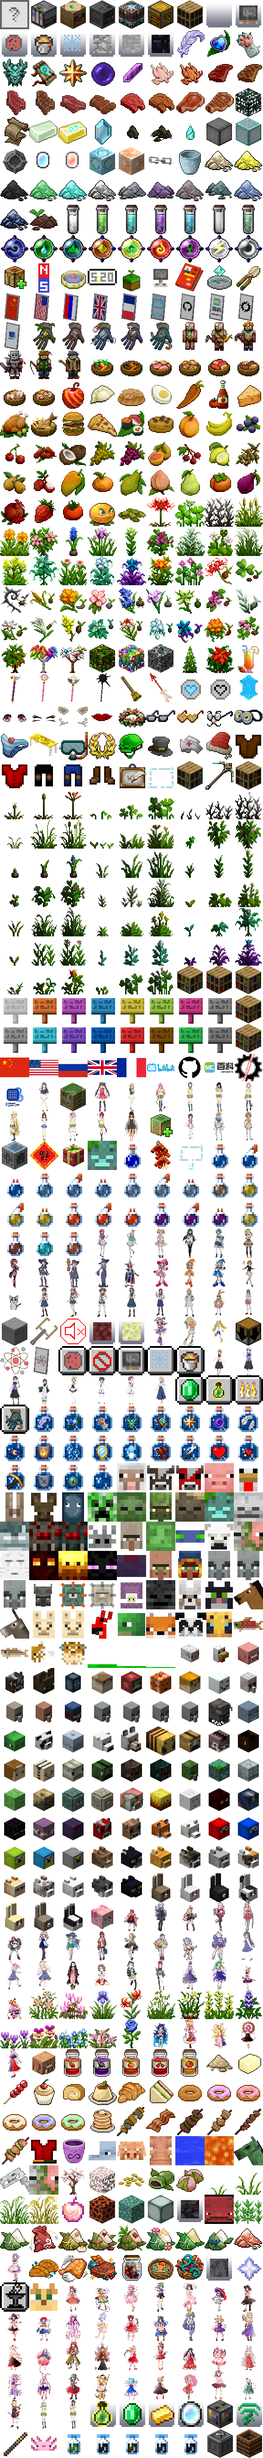
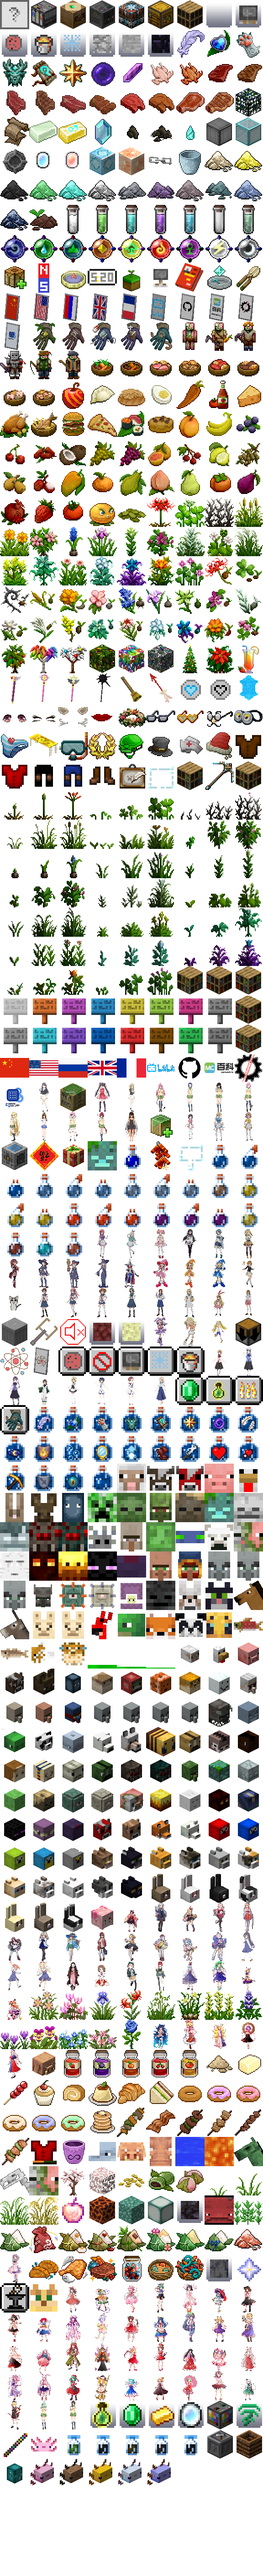
0121

diff --git a/index.html b/index.html
@@ -300,7 +300,7 @@
 	<li><a href="#矿石树树苗"><span class="ci" style="background-position: -32px -352px;"></span> 矿石树树苗</a></li>
 	<li><a href="#樱花树树苗"><span class="ci" style="background-position: -32px -1184px;"></span> 樱花树树苗</a></li>
 </ul></li>
-<li class="up5"><a href="#仪式和魔法"><span class="ci" style="background-position: -32px -368px;"></span> 仪式和魔法</a><ul>
+<li class="up5"><a href="#仪式"><span class="ci" style="background-position: -32px -368px;"></span> 仪式</a><ul>
 	<li><a href="#封印之杖"><span class="ci" style="background-position: -0px -368px;"></span> 封印之杖</a> </li>
 	<li><a href="#星之杖"><span class="ci" style="background-position: -16px -368px;"></span> 星之杖</a> </li>
 	<li><a href="#梦之杖"><span class="ci" style="background-position: -32px -368px;"></span> 梦之杖</a> </li>
@@ -390,18 +390,18 @@
 	<th>下载地址</th></tr></thead>
 <tbody>
 	<tr>
-		<td>Java版 20w51a</td>
-		<td>v1.12-0115</td>
-		<td><a href="https://gitee.com/zhangshenxing/CraftingPlusPlus/releases/v1.12-0115">Gitee</a> |
-			<a href="https://github.com/ruhuasiyu/CraftingPlusPlus/releases/tag/v1.12-0115">GitHub</a> |
-			<a href="http://home.ustc.edu.cn/~zsxqq/craftingpp/v1.12-0115.zip">其它</a></td>
+		<td>Java版 21w03a</td>
+		<td>v1.12-0121</td>
+		<td><a href="https://gitee.com/zhangshenxing/CraftingPlusPlus/releases/v1.12-0121">Gitee</a> |
+			<a href="https://github.com/ruhuasiyu/CraftingPlusPlus/releases/tag/v1.12-0121">GitHub</a> |
+			<a href="http://home.ustc.edu.cn/~zsxqq/craftingpp/v1.12-0121.zip">其它</a></td>
 	</tr>
 	<tr>
 		<td>Java版 1.16.2-1.16.4</td>
-		<td>v1.11.2-0115</td>
-		<td><a href="https://gitee.com/zhangshenxing/CraftingPlusPlus/releases/v1.11.2-0115">Gitee</a> |
-			<a href="https://github.com/ruhuasiyu/CraftingPlusPlus/releases/tag/v1.11.2-0115">GitHub</a> |
-			<a href="http://home.ustc.edu.cn/~zsxqq/craftingpp/v1.11.2-0115.zip">其它</a></td>
+		<td>v1.11.2-0121</td>
+		<td><a href="https://gitee.com/zhangshenxing/CraftingPlusPlus/releases/v1.11.2-0121">Gitee</a> |
+			<a href="https://github.com/ruhuasiyu/CraftingPlusPlus/releases/tag/v1.11.2-0121">GitHub</a> |
+			<a href="http://home.ustc.edu.cn/~zsxqq/craftingpp/v1.11.2-0121.zip">其它</a></td>
 	</tr>
 	<tr><td colspan="3"></td></tr>
 	<tr>
@@ -918,7 +918,7 @@
 <tr><th><strong id="水晶之心">水晶之心</strong></th>
 	<td><a class="ui ci heart_of_crystal"></a></td>
 	<td><code>cpp:heart_of_crystal</code></td>
-	<td>溺尸/远古守卫者/守卫者/鱿鱼/海龟/海豚/鱼/美西螈被玩家杀死时，有<code>2.5%+抢夺等级×1%</code>的几率掉落。钓鱼亦有几率获得。</td>
+	<td>溺尸/远古守卫者/守卫者/鱿鱼/海龟/海豚/鱼/美西螈/发光鱿鱼被玩家杀死时，有<code>2.5%+抢夺等级×1%</code>的几率掉落。钓鱼亦有几率获得。</td>
 </tr>
 <tr><th><strong id="山脉之肢">山脉之肢</strong></th>
 	<td><a class="ui ci limb_of_ridge"></a></td>
@@ -990,6 +990,11 @@
 	<td><a class="ui ci squid_head"></a></td>
 	<td><code>cpp:squid_head</code></td>
 	<td>鱿鱼被玩家杀死时，有<code>2.5%+抢夺等级×1%</code>的几率掉落。</td>
+</tr>
+<tr><th><strong id="荧光鱿鱼头">荧光鱿鱼头</strong></th>
+	<td><a class="ui ci glow_squid_head"></a></td>
+	<td><code>cpp:glow_squid_head</code></td>
+	<td>荧光鱿鱼被玩家杀死时，有<code>2.5%+抢夺等级×1%</code>的几率掉落。</td>
 </tr>
 <tr><th><strong id="鳕鱼头">鳕鱼头</strong></th>
 	<td><a class="ui ci cod_head"></a></td>
@@ -1356,6 +1361,31 @@
 	<td><a class="ui ci rabbit_head_toast"></a></td>
 	<td><code>cpp:rabbit_head.toast</code></td>
 	<td>Toast 兔被玩家杀死时，有<code>2.5%+抢夺等级×1%</code>的几率掉落。<br />矿物辞典 <code>dict:["rabbit_head"]</code></td>
+</tr>
+<tr><th><strong id="粉红色美西螈头">粉红色美西螈头</strong></th>
+	<td><a class="ui ci axolotl_head_lucy"></a></td>
+	<td><code>cpp:axolotl_head.lucy</code></td>
+	<td>粉红色美西螈被玩家杀死时，有<code>2.5%+抢夺等级×1%</code>的几率掉落。<br />矿物辞典 <code>dict:["axolotl_head"]</code></td>
+</tr>
+<tr><th><strong id="棕色美西螈头">棕色美西螈头</strong></th>
+	<td><a class="ui ci axolotl_head_wild"></a></td>
+	<td><code>cpp:axolotl_head.wild</code></td>
+	<td>棕色美西螈被玩家杀死时，有<code>2.5%+抢夺等级×1%</code>的几率掉落。<br />矿物辞典 <code>dict:["axolotl_head"]</code></td>
+</tr>
+<tr><th><strong id="金色美西螈头">金色美西螈头</strong></th>
+	<td><a class="ui ci axolotl_head_gold"></a></td>
+	<td><code>cpp:axolotl_head.gold</code></td>
+	<td>金色美西螈被玩家杀死时，有<code>2.5%+抢夺等级×1%</code>的几率掉落。<br />矿物辞典 <code>dict:["axolotl_head"]</code></td>
+</tr>
+<tr><th><strong id="青色美西螈头">青色美西螈头</strong></th>
+	<td><a class="ui ci axolotl_head_cyan"></a></td>
+	<td><code>cpp:axolotl_head.cyan</code></td>
+	<td>青色美西螈被玩家杀死时，有<code>2.5%+抢夺等级×1%</code>的几率掉落。<br />矿物辞典 <code>dict:["axolotl_head"]</code></td>
+</tr>
+<tr><th><strong id="蓝色美西螈头">蓝色美西螈头</strong></th>
+	<td><a class="ui ci axolotl_head_blue"></a></td>
+	<td><code>cpp:axolotl_head.blue</code></td>
+	<td>蓝色美西螈被玩家杀死时，有<code>2.5%+抢夺等级×1%</code>的几率掉落。<br />矿物辞典 <code>dict:["axolotl_head"]</code></td>
 </tr>
 <tr><th><strong id="生鹦鹉肉">生鹦鹉肉</strong></th>
 	<td><a class="ui ci parrot_meat"></a></td>
@@ -8752,7 +8782,7 @@
 
 
 <!--==================================================================-->
-<h2 id="仪式和魔法">仪式和魔法</h2>
+<h2 id="仪式">仪式</h2>
 <p>魔杖配方中的两种材料位置可互换。</p>
 
 <table><thead><tr><th>产物</th>
@@ -8762,7 +8792,7 @@
 </tr></thead><tbody>		
 <tr id="封印之杖">
 	<th><strong>封印之杖</strong><br />
-魔法等级: 1</th>
+法杖等级: 1</th>
 	<td><a href="#附魔铁锭">附魔铁锭</a>+<a href="#附魔金锭">附魔金锭</a>+木棍</td>
 	<td><span class="ui cm" title="合成器">
 		<a href="#附魔铁锭" class="ci enchanted_iron" title="附魔铁锭"></a>
@@ -8781,7 +8811,7 @@
 
 <tr id="星之杖">
 	<th><strong>星之杖</strong><br />
-魔法等级: 2</th>
+法杖等级: 2</th>
 	<td><a href="#月之碎片">月之碎片</a>+<a href="#日之碎片">日之碎片</a>+<a href="#封印之杖">封印之杖</a></td>
 	<td><span class="ui cm" title="合成器">
 		<a href="#月之碎片" class="ci moon_shard" title="月之碎片"></a>
@@ -8800,7 +8830,7 @@
 
 <tr id="梦之杖">
 	<th><strong>梦之杖</strong><br />
-魔法等级: 3</th>
+法杖等级: 3</th>
 	<td>下界之星+<a href="#龙蛋">龙蛋</a>+<a href="#星之杖">星之杖</a></td>
 	<td><span class="ui cm" title="合成器">
 		<a class="ci nether_star" title="下界之星"></a>
@@ -8859,7 +8889,7 @@
 <h4 id="附魔书制作">附魔书制作</h4>
 <p></p>
 <ul>
-<li>魔杖等级：至少1级</li>
+<li>法杖等级：至少1级</li>
 <li>附加物：书</li>
 <li>时长：60秒</li>
 <li>消耗材料：青金石+<a href="#附魔之瓶">附魔之瓶</a>+<a href="#天空之翼">稀有掉落物</a></li>
@@ -8875,14 +8905,14 @@
 		<a href="#天空之翼" class="ci soul_of_dirt" title="稀有掉落物"></a>
 		<a class="experience_bottle" title="附魔之瓶"><span class="stack">16</span></a>
 	</span></p>
-<p>可制作除诅咒外的36种(<span class="oldversion">1.10.x</span> 35种)魔咒的最高等级附魔书。每种组合(共49种)对应一种魔咒，该对应关系在模组首次载入时被决定。</p>
+<p>可制作38种魔咒的最高等级附魔书。每种组合(共49种)对应一种魔咒，该对应关系在模组首次载入时被决定。</p>
 
 <h4 id="效果附加">效果附加</h4>
 <ul>
-<li>魔杖等级：至少2级</li>
+<li>法杖等级：至少2级</li>
 <li>附加物：任意物品</li>
 <li>时长：60秒</li>
-<li> 消耗材料：药剂+<a href="#附魔之瓶">附魔之瓶</a>+<a href="#天空之翼">稀有掉落物</a></li>
+<li>消耗材料：药剂+<a href="#附魔之瓶">附魔之瓶</a>+<a href="#天空之翼">稀有掉落物</a></li>
 </ul>
 <p><span class="ui dp">
 	<a class="ci agentia_of_bounce" title="抗火药水"></a>
@@ -8970,7 +9000,7 @@
 
 <h4 id="属性附加">属性附加</h4>
 <ul>
-<li>魔杖等级：至少3级</li>
+<li>法杖等级：至少3级</li>
 <li>附加物：可佩戴的物品和武器</li>
 <li>时长：60秒</li>
 <li>消耗材料：金锭+<a href="#附魔之瓶">附魔之瓶</a>+<a href="#天空之翼">稀有掉落物</a></li>
@@ -9028,7 +9058,7 @@
 
 <h4 id="黑暗召唤">黑暗召唤</h4>
 <ul>
-<li>魔杖等级：黑暗魔杖</li>
+<li>法杖等级：黑暗魔杖</li>
 <li>附加物：<a href="#破损刷怪笼">破损刷怪笼</a></li>
 <li>时长：60秒</li>
 <li>消耗材料：<a href="#黑暗碎片">黑暗碎片</a>+<a href="#天空之翼">稀有掉落物</a></li>
@@ -9049,7 +9079,7 @@
 
 <h4 id="光明修复">光明修复</h4>
 <ul>
-<li>魔杖等级：至少2级</li>
+<li>法杖等级：至少2级</li>
 <li>附加物：紫水晶块</li>
 <li>时长：60秒</li>
 <li>消耗材料：紫水晶碎片+<a href="#水晶之星">水晶之星</a></li>
@@ -10519,7 +10549,7 @@
 	<a href="https://space.bilibili.com/4469715"><img src="items/bilibili.png" alt="哔哩哔哩" /></a>
 </p>
 
-<p>最后更新 2021-01-15</p>
+<p>最后更新 2021-01-21</p>
 </footer>
 
 </article>

diff --git a/items/items_css.css b/items/items_css.css
@@ -203,7 +203,7 @@ table.onlyicons td{
 }
 .smallicons span.ci{
 	background-image: url("colorful_items.png");
-	background-size:144px 1344px;
+	background-size:144px 1408px;
 }
 .smallicons span.icons18{
 	background-image: url("icons18.png");
@@ -231,7 +231,7 @@ span.ui a, a.ui{
 }
 span.ui a.ci, a.ci{
 	background-image: url("colorful_items.png");
-	background-size: 288px 2688px;
+	background-size: 288px 2816px;
 }
 span.ui a.icons18, a.icons18{
 	background-image: url("icons18.png");
@@ -2266,6 +2266,14 @@ span.ui a.xp_orb, a.xp_orb{
 .vaccine_of_mining_fatigue          {background-position: -128px -2656px;}
 .vaccine_of_wither                  {background-position: -160px -2656px;}
 .vaccine_of_darkness                {background-position: -192px -2656px;}
+.block_breaker                      {background-position: -224px -2656px;}
+.fermenter                          {background-position: -256px -2656px;}
+.glow_squid_head                    {background-position: -000px -2688px;}
+.axolotl_head_lucy                  {background-position: -032px -2688px;}
+.axolotl_head_wild                  {background-position: -064px -2688px;}
+.axolotl_head_gold                  {background-position: -096px -2688px;}
+.axolotl_head_cyan                  {background-position: -128px -2688px;}
+.axolotl_head_blue                  {background-position: -160px -2688px;}
 
 .speed                   {background-position: -000px -00px;}
 .slowness                {background-position: -018px -00px;}

diff --git a/test.html b/test.html
@@ -35,7 +35,7 @@
 
 
 <table style="border:1px solid #aaa;border-collapse:collapse;" align="left">
-	<thead style="border:1px solid #aaa;border-collapse:collapse;">
+	<thead style="border:1px solid rgb(143, 134, 134);border-collapse:collapse;">
 		<tr><th style="text-align: center;background-color: #505050;color:white;border:1px solid #aaa;border-collapse:collapse;width:20%;">物品</th><th style="text-align: center;background-color: #505050;color:white;border:1px solid #aaa;border-collapse:collapse;width:20%;">堆叠数</th><th style="text-align: center;background-color: #505050;color:white;border:1px solid #aaa;border-collapse:collapse;width:20%;">权重</th><th style="text-align: center;background-color: #505050;color:white;border:1px solid #aaa;border-collapse:collapse;width:20%;">品质</th></tr>
 	</thead>
 	<tbody style="border:1px solid #aaa;border-collapse:collapse;">
